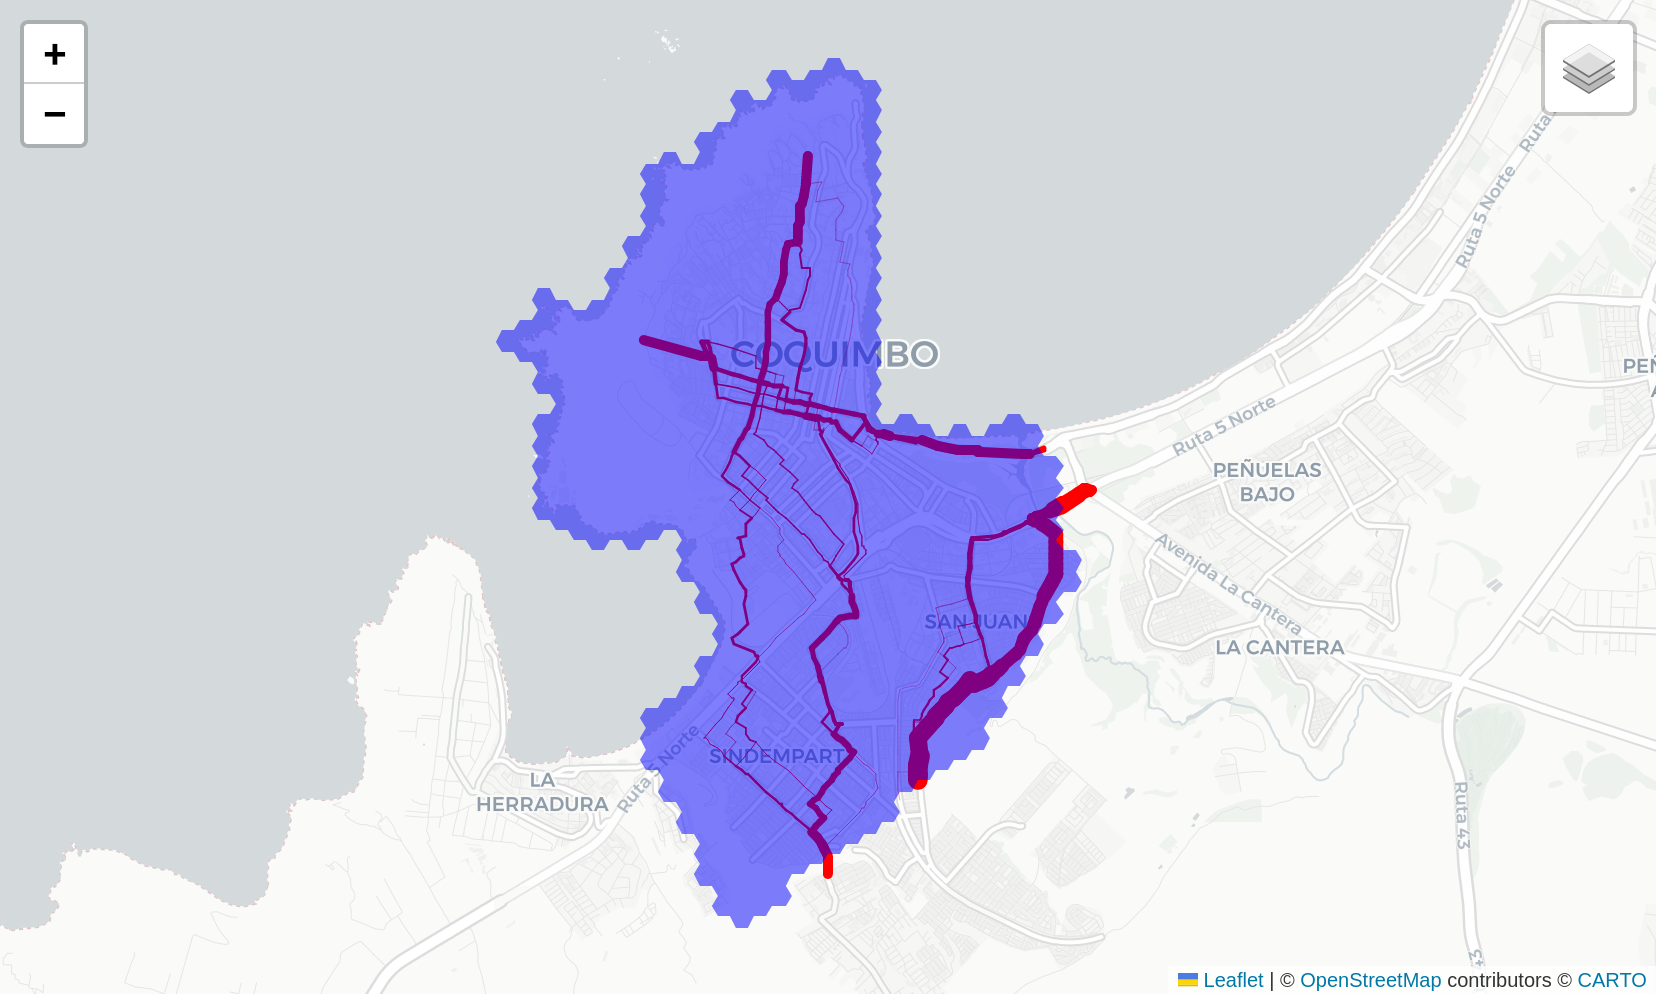
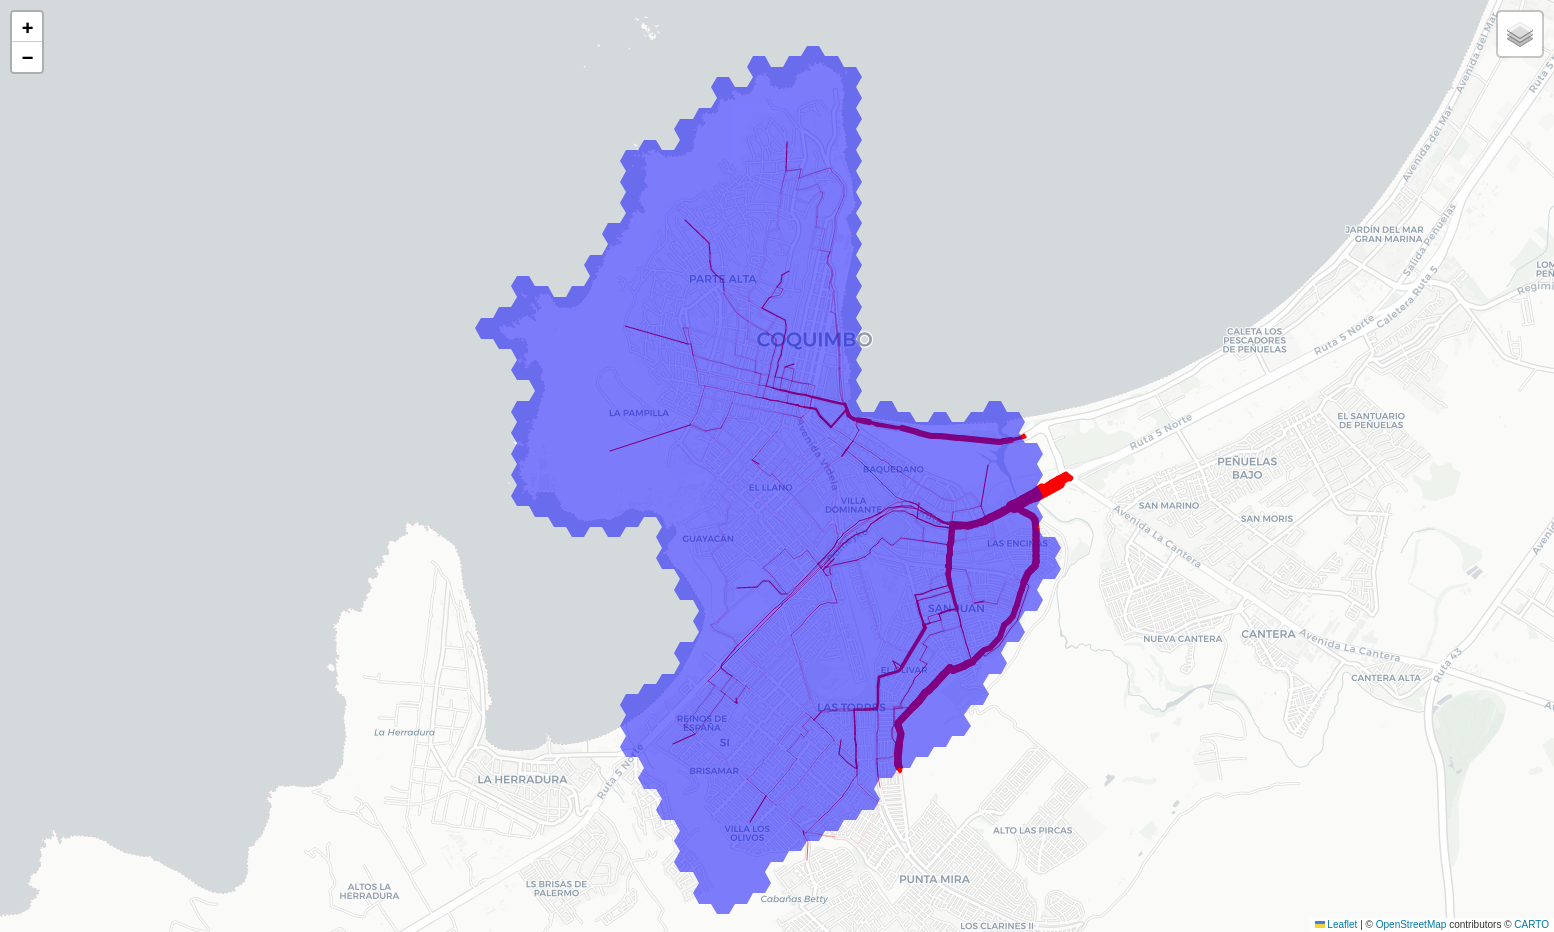
Add interior demand to demand sub-area matrix, add automated class to docs

diff --git a/docs/source/examples/assignment_workflows/plot_subarea_analysis.py b/docs/source/examples/assignment_workflows/plot_subarea_analysis.py
@@ -117,6 +117,94 @@ zones = zones.loc[zones_of_interest]
 zones.head()
 
 # %%
+# Sub-area analysis
+# ~~~~~~~~~~~~~~~~~~~~
+
+# From here there are two main paths to conduct a sub-area analysis, manual or automated. AequilibraE ships with a small
+# class that handle most of the details regarding the implementation and extract of the relevant data. It also exposes
+# all the tools necessary to conduct this analysis yourself if you need fine grained control.
+
+# %%
+# Automated sub-area analysis
+# ~~~~~~~~~~~~~~~~~~~~~~~~~~~
+
+# We first construct out SubAreaAnalysis object from the graph, zones, and matrix we previously constructed, then
+# configure the route choice assignment and execute it. From there the `post_process` method is able to use the route
+# choice assignment results to construct the desired demand matrix as a DataFrame.
+from aequilibrae.paths import SubAreaAnalysis
+
+subarea = SubAreaAnalysis(graph, zones, mat)
+subarea.rc.set_choice_set_generation("lp", max_routes=5, penalty=1.02, store_results=False)
+subarea.rc.execute(perform_assignment=True)
+demand = subarea.post_process()
+demand
+
+# %%
+# We'll re-prepare our graph but with our new "external" ODs.
+new_centroids = np.unique(demand.reset_index()[["origin id", "destination id"]].to_numpy().reshape(-1))
+graph.prepare_graph(new_centroids)
+graph.set_graph("utility")
+new_centroids
+
+# %%
+# We can then perform an assignment using our new demand matrix on the limited graph
+from aequilibrae.paths import RouteChoice
+
+rc = RouteChoice(graph)
+rc.add_demand(demand)
+rc.set_choice_set_generation("link-penalisation", max_routes=5, penalty=1.02, store_results=False, seed=123)
+rc.execute(perform_assignment=True)
+
+# %%
+# And plot the link loads for easy viewing
+subarea_zone = folium.Polygon(
+    locations=[(x[1], x[0]) for x in zones.unary_union.boundary.coords],
+    fill_color="blue",
+    fill_opacity=0.5,
+    fill=True,
+    stroke=False,
+)
+
+
+def plot_results(link_loads):
+    link_loads = link_loads[link_loads.tot > 0]
+    max_load = link_loads["tot"].max()
+    links = gpd.GeoDataFrame(project.network.links.data, crs=4326)
+    loaded_links = links.merge(link_loads, on="link_id", how="inner")
+
+    loads_lyr = folium.FeatureGroup("link_loads")
+
+    # Maximum thickness we would like is probably a 10, so let's make sure we don't go over that
+    factor = 10 / max_load
+
+    # Let's create the layers
+    for _, rec in loaded_links.iterrows():
+        points = rec.geometry.wkt.replace("LINESTRING ", "").replace("(", "").replace(")", "").split(", ")
+        points = "[[" + "],[".join([p.replace(" ", ", ") for p in points]) + "]]"
+        # we need to take from x/y to lat/long
+        points = [[x[1], x[0]] for x in eval(points)]
+        _ = folium.vector_layers.PolyLine(
+            points,
+            tooltip=f"link_id: {rec.link_id}, Flow: {rec.tot:.3f}",
+            color="red",
+            weight=factor * rec.tot,
+        ).add_to(loads_lyr)
+    long, lat = project.conn.execute("select avg(xmin), avg(ymin) from idx_links_geometry").fetchone()
+
+    map_osm = folium.Map(location=[lat, long], tiles="Cartodb Positron", zoom_start=12)
+    loads_lyr.add_to(map_osm)
+    folium.LayerControl().add_to(map_osm)
+    return map_osm
+
+
+map = plot_results(rc.get_load_results()["demand"])
+subarea_zone.add_to(map)
+map
+
+# %%
+# Manual sub-area analysis further preparation
+# ~~~~~~~~~~~~~~~~~~~~~
+# %%
 # We take the union of this GeoDataFrame as our polygon.
 poly = zones.unary_union
 poly
@@ -163,14 +251,6 @@ long, lat = project.conn.execute("select avg(xmin), avg(ymin) from idx_links_geo
 
 map_osm = folium.Map(location=[lat, long], tiles="Cartodb Positron", zoom_start=12)
 
-subarea_zone = folium.Polygon(
-    locations=[(x[1], x[0]) for x in poly.boundary.coords],
-    fill_color="blue",
-    fill_opacity=0.5,
-    fill=True,
-    stroke=False,
-)
-
 subarea_zone.add_to(map_osm)
 
 subarea_layer.add_to(map_osm)
@@ -178,7 +258,7 @@ _ = folium.LayerControl().add_to(map_osm)
 map_osm
 
 # %%
-# Sub-area analysis
+# Manual sub-area analysis
 # ~~~~~~~~~~~~~~~~~~~~~
 # In order to perform out analysis we need to know what OD pairs have flow that enters and/or exists our polygon. To do
 # so we perform a select link analysis on all links and pairs of links that cross the boundary.  We create them as
@@ -192,10 +272,19 @@ f"Created: {len(edge_pairs)} edge pairs from {len(single_edges)} edges"
 from aequilibrae.paths import RouteChoice
 
 # %%
-# This object construct might take a minute depending on the size of the graph due to the construction of the compressed
-# link to network link mapping that's required.  This is a one time operation per graph and is cached. We need to supply
-# a Graph and an AequilibraeMatrix or DataFrame via the `add_demand` method , if demand is not provided link loading
-# cannot be preformed.
+# We'll re-prepare out graph quickly
+project.network.build_graphs()
+graph = project.network.graphs["c"]
+graph.network = graph.network.assign(utility=graph.network.distance * theta)
+graph.prepare_graph(graph.centroids)
+graph.set_graph("utility")
+graph.set_blocked_centroid_flows(False)
+
+# %%
+# This object construction might take a minute depending on the size of the graph due to the construction of the
+# compressed link to network link mapping that's required.  This is a one time operation per graph and is cached. We
+# need to supply a Graph and an AequilibraeMatrix or DataFrame via the `add_demand` method , if demand is not provided
+# link loading cannot be preformed.
 rc = RouteChoice(graph)
 rc.add_demand(mat)
 
@@ -204,7 +293,8 @@ rc.add_demand(mat)
 rc.set_select_links(single_edges | edge_pairs)
 
 # %%
-# For the sake of demonstration we limit out demand matrix to a few OD pairs.
+# For the sake of demonstration we limit out demand matrix to a few OD pairs. This filter is also possible with the
+# automated approach, just edit the `subarea.rc.demand.df` DataFrame, however make sure the index remains intact.
 ods_pairs_of_interest = [
     (4, 39),
     (92, 37),
@@ -224,37 +314,6 @@ rc.execute(perform_assignment=True)
 
 # %%
 # We can visualise the current links loads
-def plot_results(link_loads):
-    link_loads = link_loads[link_loads.tot > 0]
-    max_load = link_loads["tot"].max()
-    links = gpd.GeoDataFrame(project.network.links.data, crs=4326)
-    loaded_links = links.merge(link_loads, on="link_id", how="inner")
-
-    loads_lyr = folium.FeatureGroup("link_loads")
-
-    # Maximum thickness we would like is probably a 10, so let's make sure we don't go over that
-    factor = 10 / max_load
-
-    # Let's create the layers
-    for _, rec in loaded_links.iterrows():
-        points = rec.geometry.wkt.replace("LINESTRING ", "").replace("(", "").replace(")", "").split(", ")
-        points = "[[" + "],[".join([p.replace(" ", ", ") for p in points]) + "]]"
-        # we need to take from x/y to lat/long
-        points = [[x[1], x[0]] for x in eval(points)]
-        _ = folium.vector_layers.PolyLine(
-            points,
-            tooltip=f"link_id: {rec.link_id}, Flow: {rec.tot:.3f}",
-            color="red",
-            weight=factor * rec.tot,
-        ).add_to(loads_lyr)
-    long, lat = project.conn.execute("select avg(xmin), avg(ymin) from idx_links_geometry").fetchone()
-
-    map_osm = folium.Map(location=[lat, long], tiles="Cartodb Positron", zoom_start=12)
-    loads_lyr.add_to(map_osm)
-    folium.LayerControl().add_to(map_osm)
-    return map_osm
-
-
 map = plot_results(rc.get_load_results()["demand"])
 subarea_zone.add_to(map)
 map

diff --git a/aequilibrae/paths/sub_area.py b/aequilibrae/paths/sub_area.py
@@ -137,6 +137,11 @@ class SubAreaAnalysis:
                     if not o_inside and not d_inside:
                         through[self.graph.all_nodes[link1.a_node], self.graph.all_nodes[link2.b_node]] += load
 
+            interior = []
+            for o, d in self.rc.demand.df.index:
+                if o in self.interior_nodes.index and d in self.interior_nodes.index:
+                    interior.append((o, d))
+
             sub_area_demand.append(
                 pd.DataFrame(
                     list(entered.values()) + list(exited.values()) + list(through.values()),
@@ -148,5 +153,11 @@ class SubAreaAnalysis:
                 )
             )
 
-        self.sub_area_demand = pd.concat(sub_area_demand, axis=1).fillna(0.0).sort_index()
+        interior = []
+        for o, d in self.rc.demand.df.index:
+            if o in self.interior_nodes.index and d in self.interior_nodes.index:
+                interior.append((o, d))
+
+        self.sub_area_demand = pd.concat(sub_area_demand, axis=1).fillna(0.0)
+        self.sub_area_demand = pd.concat([self.sub_area_demand, self.rc.demand.df.loc[interior]]).sort_index()
         return self.sub_area_demand

diff --git a/docs/source/examples/assignment_workflows/plot_route_choice.py b/docs/source/examples/assignment_workflows/plot_route_choice.py
@@ -114,10 +114,11 @@ mat.computational_view()
 # Here we'll construct and use the Route Choice class to generate our route sets
 from aequilibrae.paths import RouteChoice
 
-# %% This object construct might take a minute depending on the size of the graph due to the construction of the
-# compressed link to network link mapping that's required.  This is a one time operation per graph and is cached. We
-# need to supply a Graph and an AequilibraeMatrix or DataFrame via the `add_demand` method , if demand is not provided
-# link loading cannot be preformed.
+# %%
+# This object construct might take a minute depending on the size of the graph due to the construction of the compressed
+# link to network link mapping that's required.  This is a one time operation per graph and is cached. We need to supply
+# a Graph and an AequilibraeMatrix or DataFrame via the `add_demand` method , if demand is not provided link loading
+# cannot be preformed.
 rc = RouteChoice(graph)
 rc.add_demand(mat)
 
